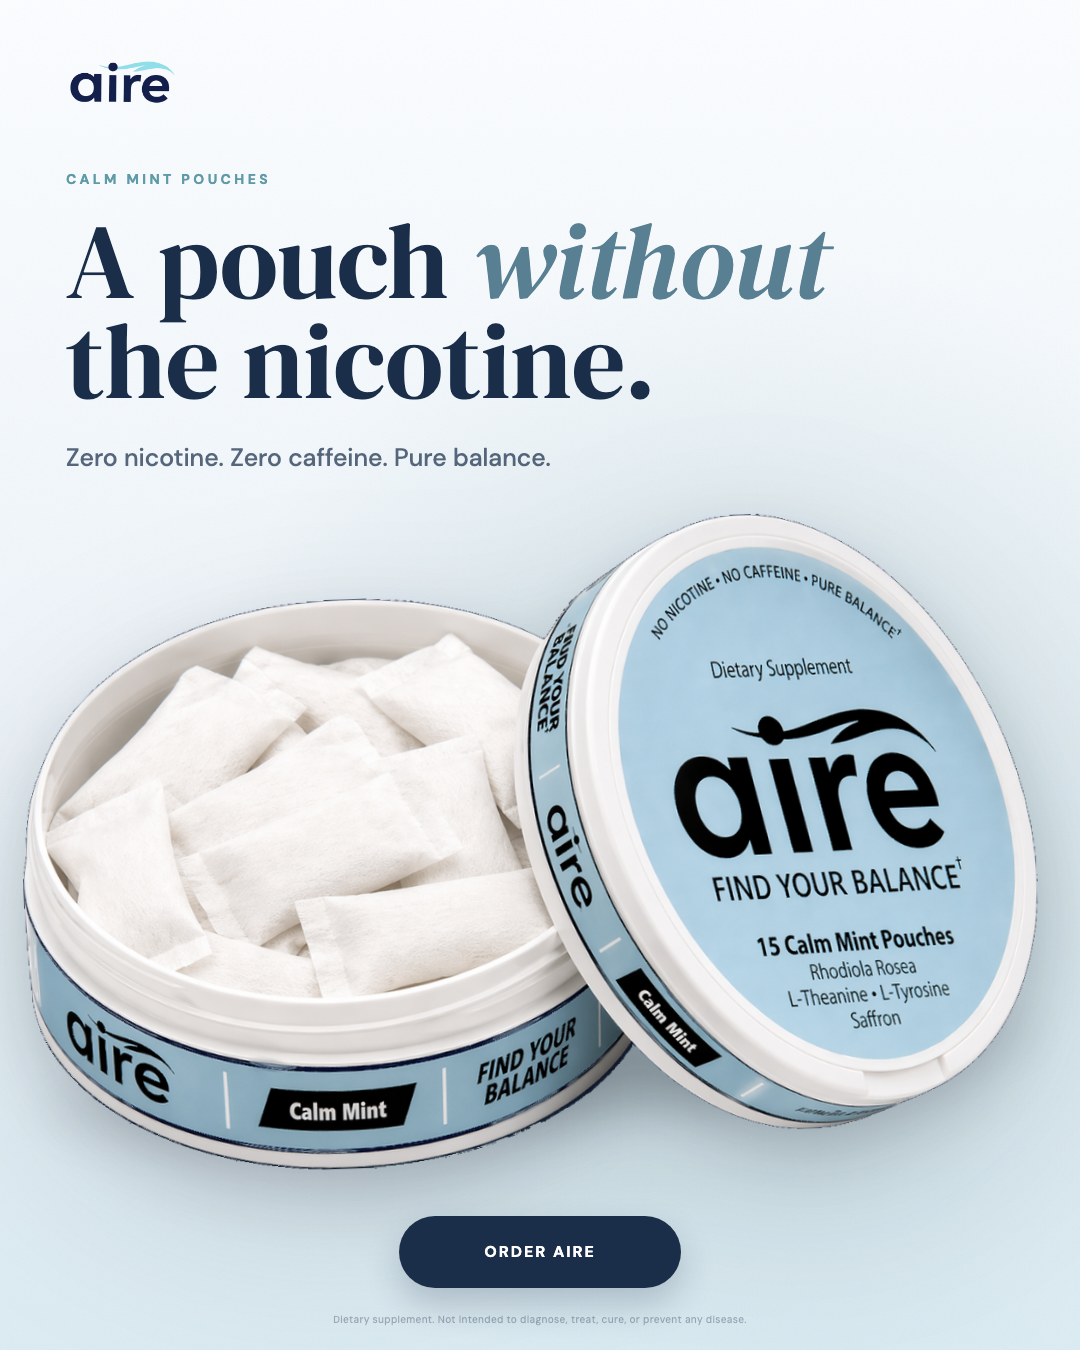
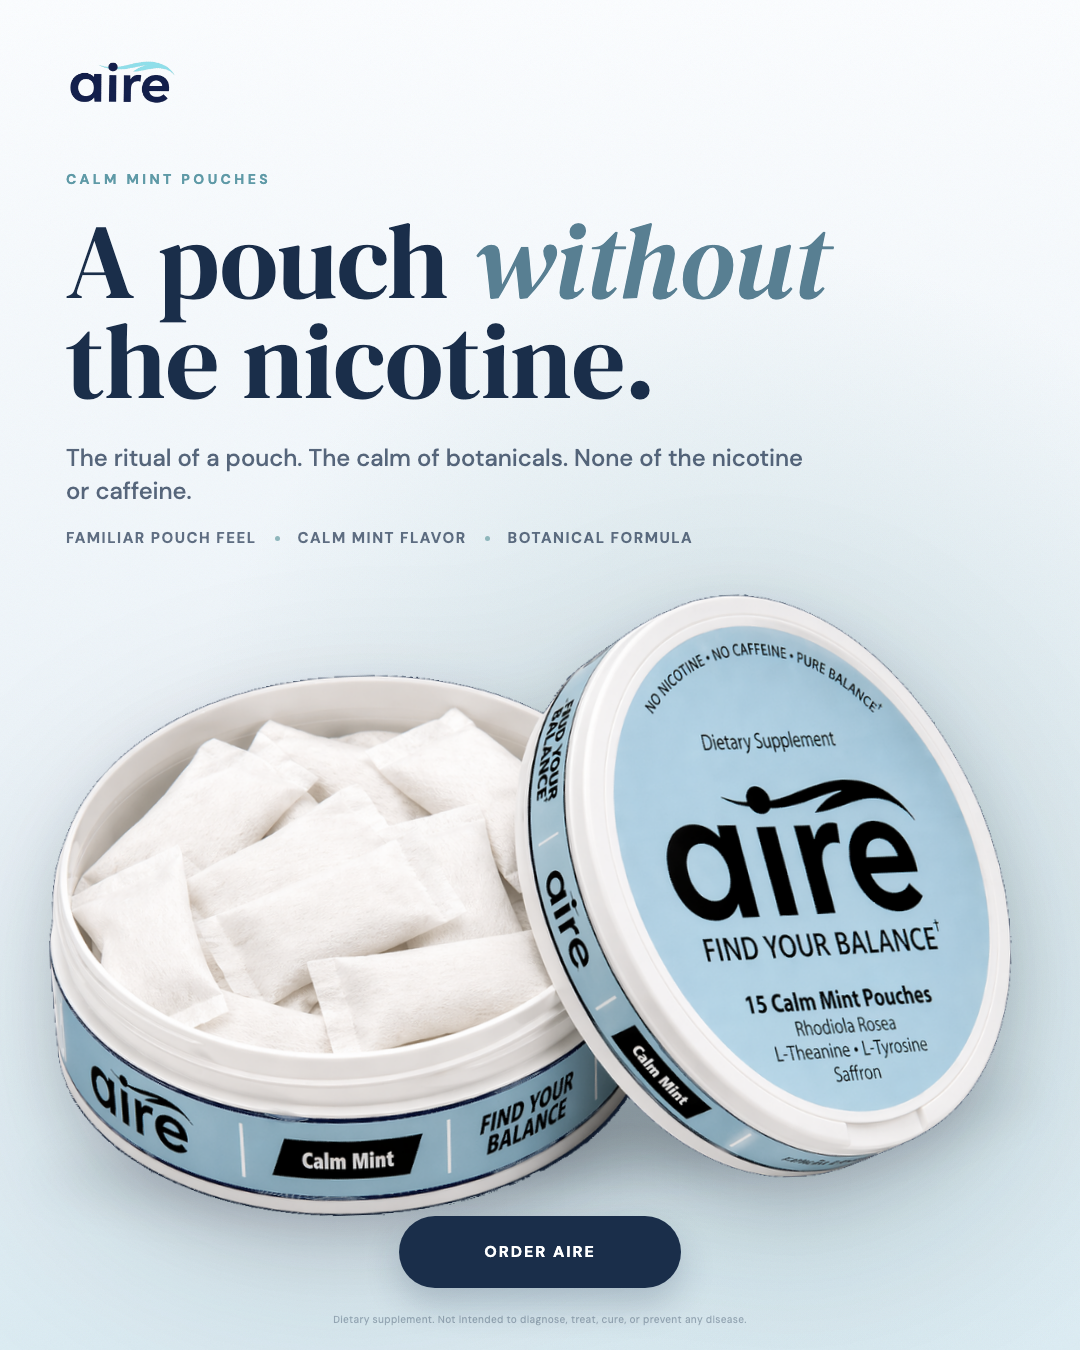
Refine minimal Aire Instagram ad copy

diff --git a/instagram-posts/paid-ads/aire-nicotine-free-minimal-ad.html b/instagram-posts/paid-ads/aire-nicotine-free-minimal-ad.html
@@ -98,13 +98,43 @@
     }
 
     .support {
-      width: 550px;
+      width: 760px;
       margin: 30px 0 0;
-      font-size: 25px;
+      font-size: 24px;
       line-height: 1.38;
       letter-spacing: 0;
       color: rgba(26,46,74,0.72);
       font-weight: 500;
+    }
+
+    .reason-row {
+      display: flex;
+      align-items: center;
+      gap: 18px;
+      margin-top: 24px;
+      font-size: 15px;
+      line-height: 1;
+      letter-spacing: 0.1em;
+      text-transform: uppercase;
+      color: rgba(26,46,74,0.68);
+      font-weight: 800;
+      white-space: nowrap;
+    }
+
+    .reason-row span {
+      display: inline-flex;
+      align-items: center;
+      gap: 18px;
+    }
+
+    .reason-row span + span::before {
+      content: "";
+      display: block;
+      width: 5px;
+      height: 5px;
+      border-radius: 999px;
+      background: var(--sky);
+      opacity: 0.9;
     }
 
     .product-wrap {
@@ -112,7 +142,7 @@
       z-index: 2;
       left: -118px;
       right: -95px;
-      top: 528px;
+      top: 592px;
       height: 628px;
       display: flex;
       align-items: center;
@@ -136,7 +166,7 @@
     .product {
       position: relative;
       z-index: 1;
-      width: 1038px;
+      width: 984px;
       height: auto;
       display: block;
       transform: rotate(-2deg);
@@ -198,7 +228,12 @@
     <section class="copy">
       <div class="eyebrow">Calm Mint Pouches</div>
       <h1>A pouch <em>without</em> the nicotine.</h1>
-      <p class="support">Zero nicotine. Zero caffeine. Pure balance.</p>
+      <p class="support">The ritual of a pouch. The calm of botanicals. None of the nicotine or caffeine.</p>
+      <div class="reason-row" aria-label="Why choose Aire">
+        <span>Familiar pouch feel</span>
+        <span>Calm Mint flavor</span>
+        <span>Botanical formula</span>
+      </div>
     </section>
 
     <section class="product-wrap" aria-hidden="true">
